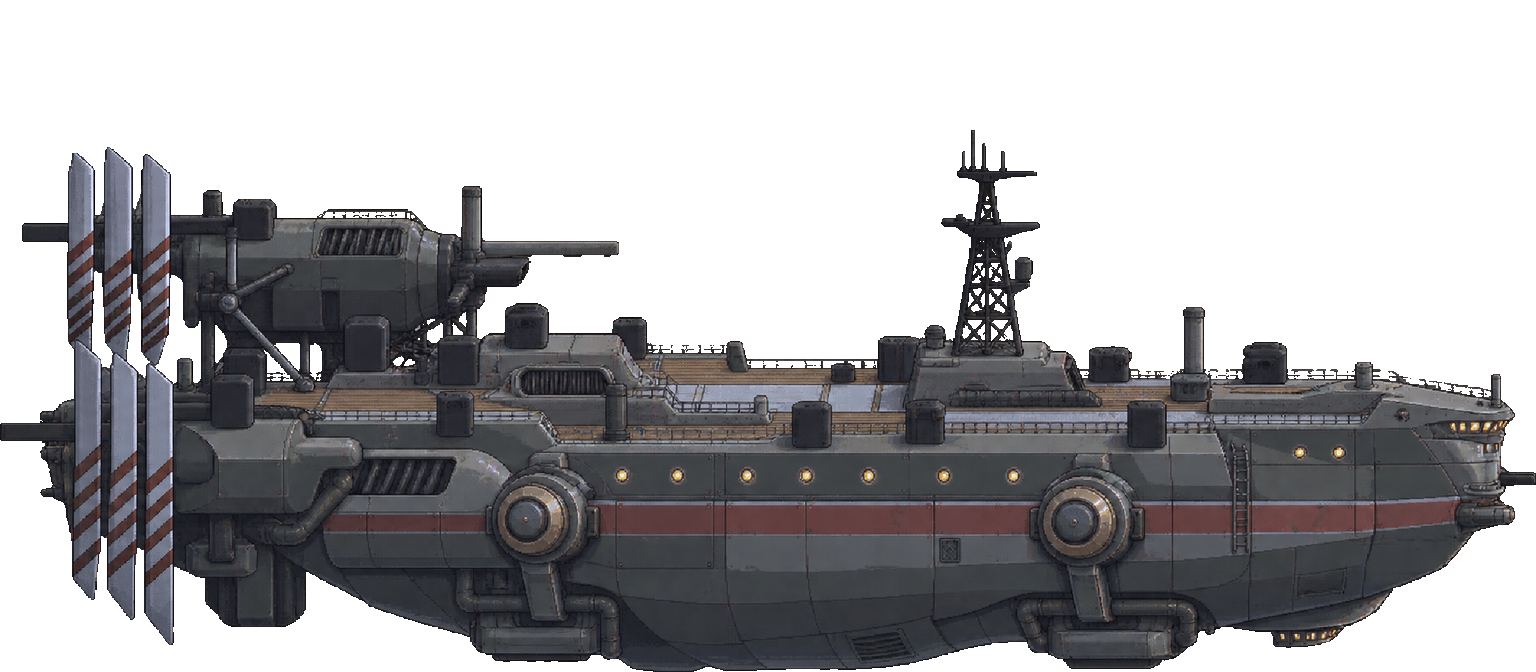
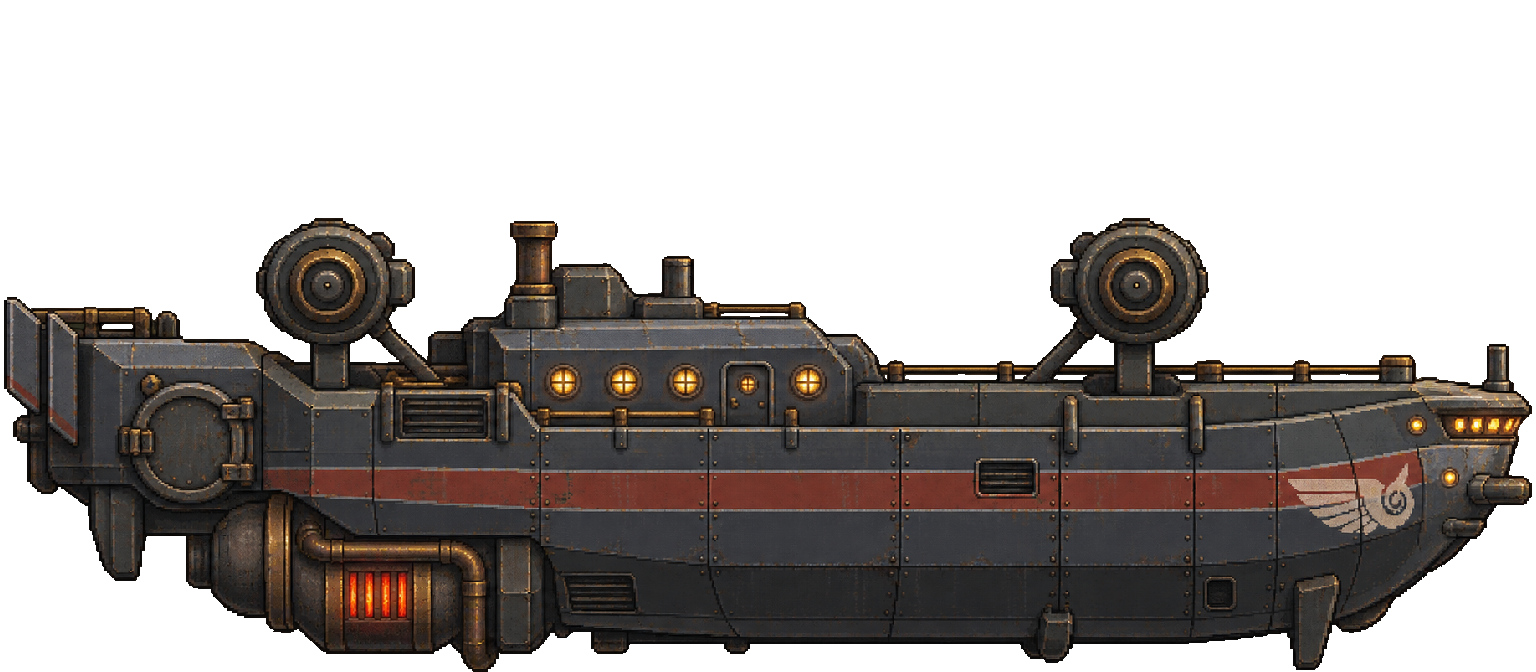
feat(assets): guard transport and mooring animations

diff --git a/assets/CREDITS.md b/assets/CREDITS.md
@@ -112,6 +112,11 @@ Six PNG corrigés avec ChatGPT / image_gen : `assets/hd2d/sky/sky_dusk.png`, `as
 - `assets/hd2d/interior/props/sofa_beige_back.png` — 192 × 119 px.
 - `assets/hd2d/interior/props/infirmary_desk.png` — 125 × 96 px.
 
+## Île 68 — transport de la Garde (cahier n° 6, C.1)
+
+Six PNG générés avec ChatGPT / OpenAI Image Generation le 16 octobre 2026 : flanc du transport, trappe, rotor, bras d’amarrage animé, faisceau de lumière et rampe métallique. Références : planches officielles des ZIP (page 93), navires et amarrage HD-2D du projet. Rotor assemblé par rotations de 45° au plus proche voisin ; pied d’amarrage recopié au pixel près et première image identique au bras ouvert de A.2. Montage local du volant et du pourtour visible de trappe. Originaux et étapes conservés hors dépôt, sans réduction de palette. Univers inspiré de SukaSuka, droits des ayants droit réservés.
+
+
 ## Cahier n° 5 — Île 68, R0 : fin du mobilier et faces associées
 
 32 PNG générés avec ChatGPT / image_gen le 14 octobre 2026 : les 27 images restantes de R0 (quatre corrections, vingt-trois vues nouvelles) et cinq faces R3 nécessaires à leur cohérence. Références : PNG du mobilier déjà livré ; bloc de style v5, sections 2.7 et R0 du cahier Île 68. Recalage géométrique autorisé au plus proche voisin, alpha binaire, sans nouvelle couleur RGB visible. Originaux et anciens PNG conservés hors dépôt. Les hauteurs des profils du fauteuil sous drap (106 px), du canapé du salon (152 px), de la vitrine (213 px) et du comptoir de librairie (152 px) suivent la formule 2.7, avec accord de l’utilisateur. Le cristal et la manivelle du projecteur changent de côté dans la vue arrière. Les nouvelles images sont importables ; leur enregistrement au catalogue moteur, leur sélection et leur placement dans les cartes restent à intégrer. R0 totalise désormais 54 PNG livrés ; les cinq faces associées ne constituent pas le lot R3 complet.
